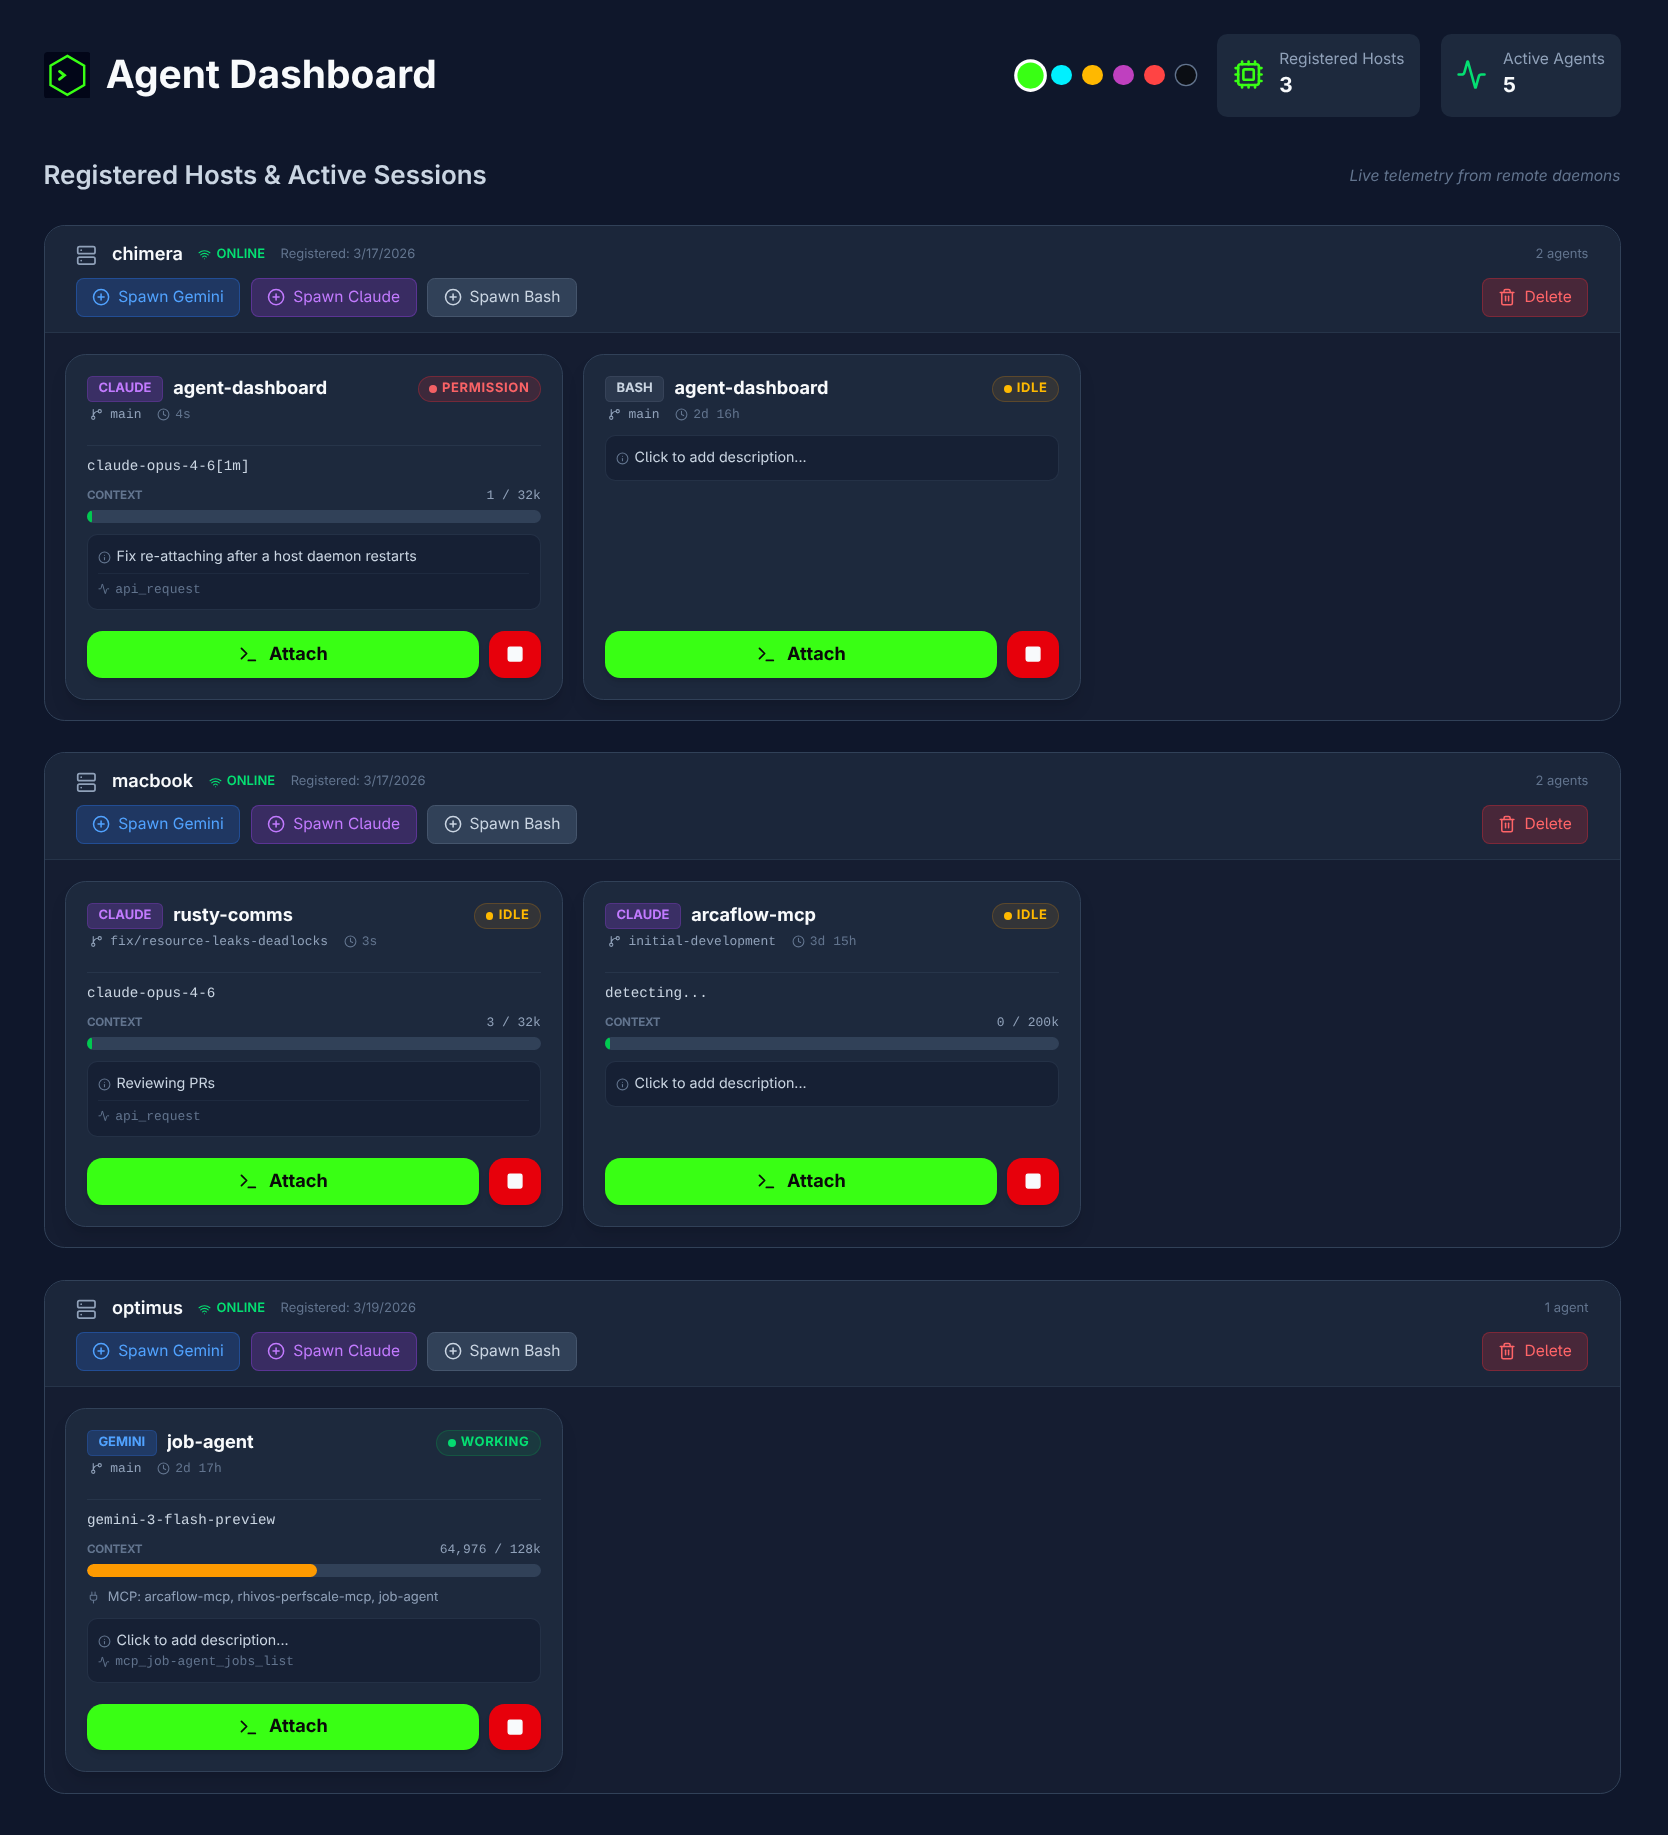
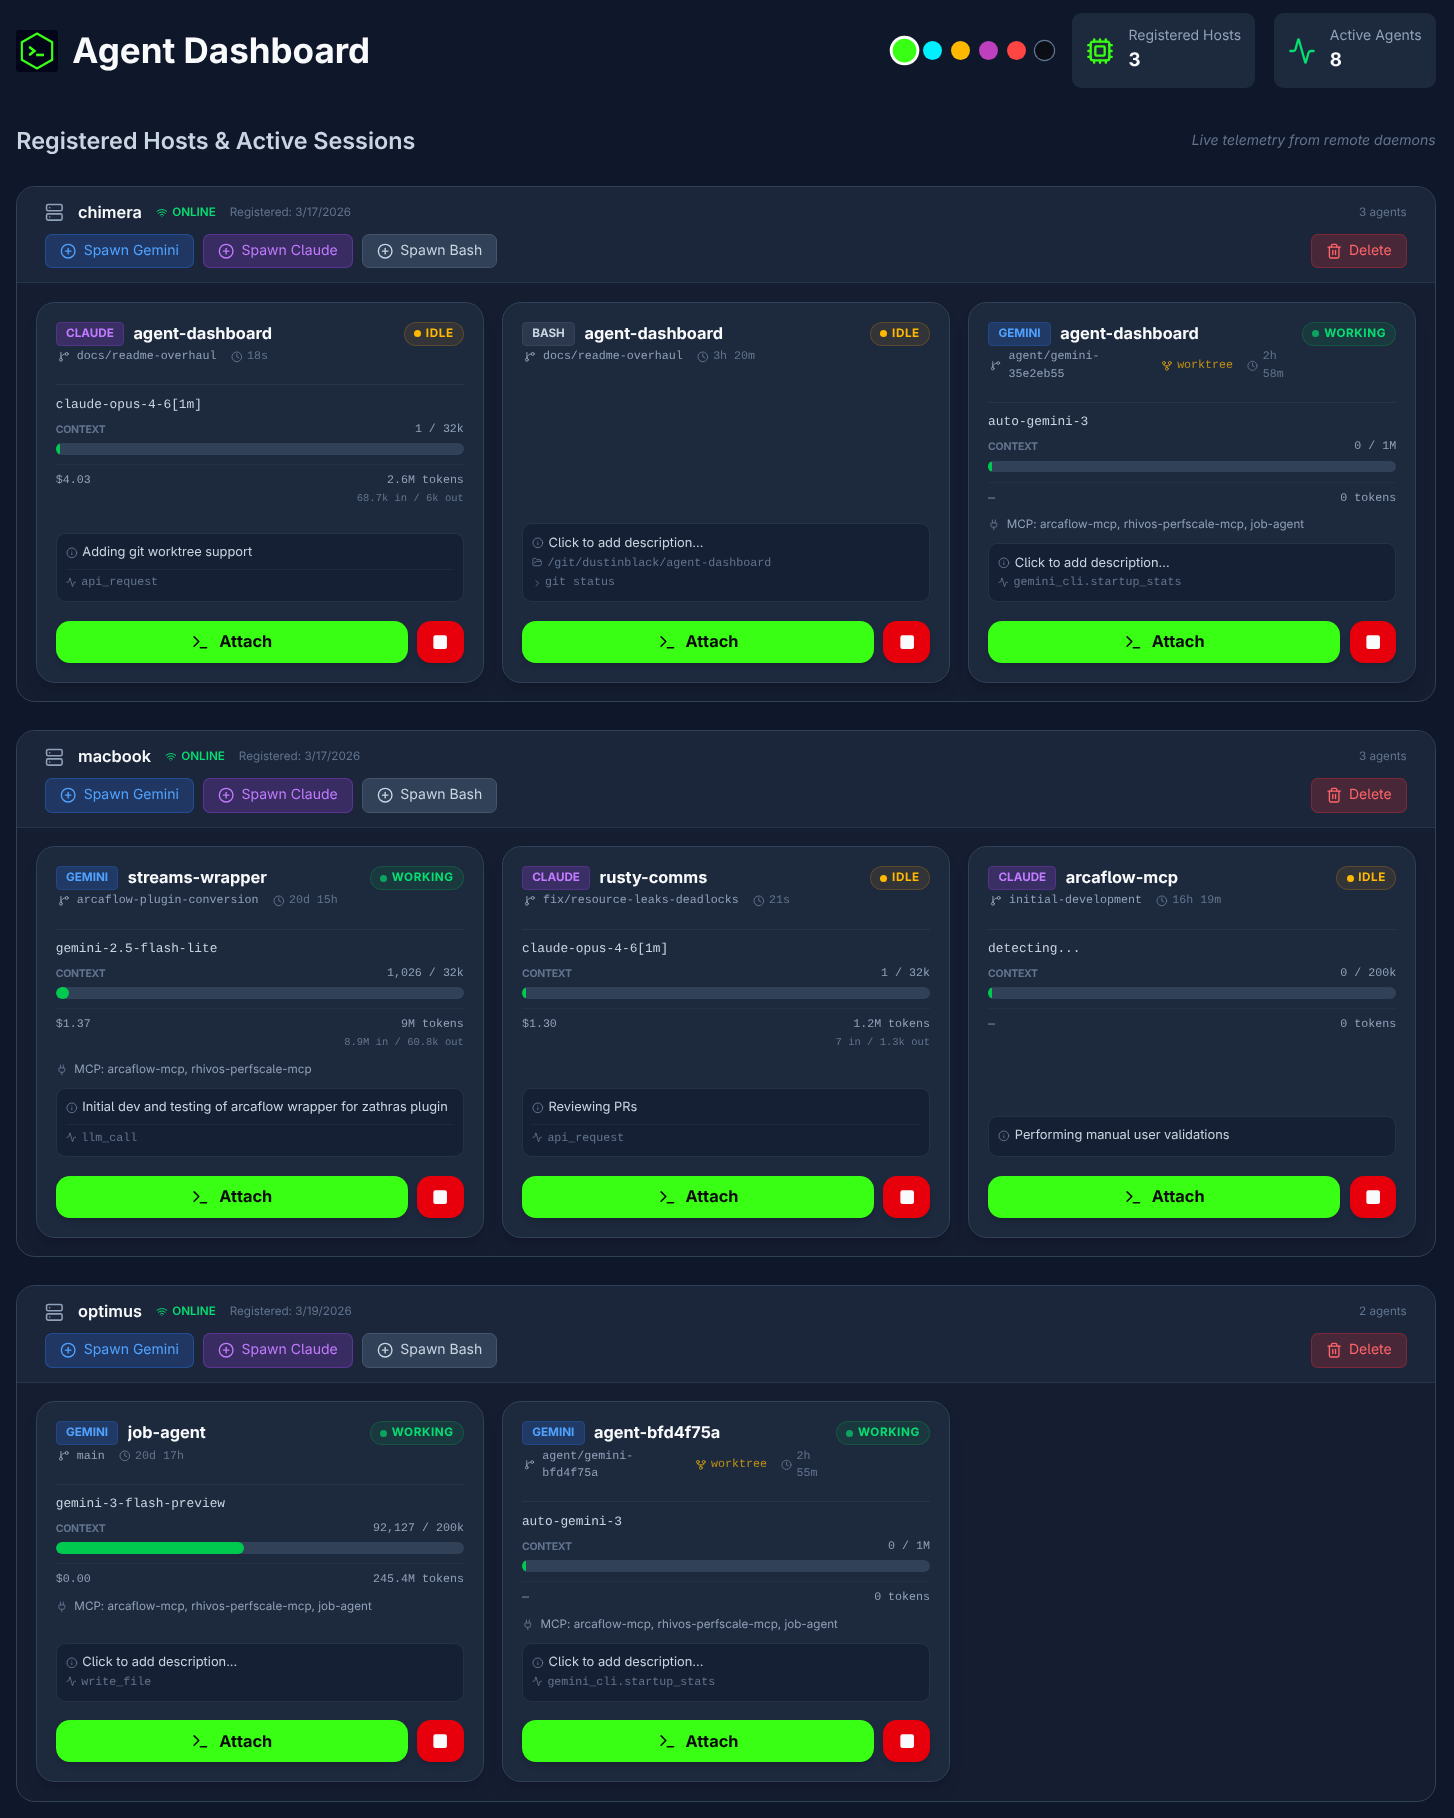
Add Claude session screenshot and update dashboard image
Add Claude Code session screenshot to the Terminal UX section
showing a detached terminal window. Update the main dashboard
screenshot with current UI.

diff --git a/README.md b/README.md
@@ -91,6 +91,11 @@ session cost.
   cascading cleanup of associated sessions.
 
 ### Terminal UX
+
+<p align="center">
+  <img src="docs/images/agent-dashboard_claude-session-window.png" alt="Claude Code session in a detached terminal window" width="800">
+</p>
+
 - **Detached terminal windows** — Attach to any session in a
   standalone browser popup for side-by-side multitasking.
 - **Session history replay** — Close and re-attach to a terminal